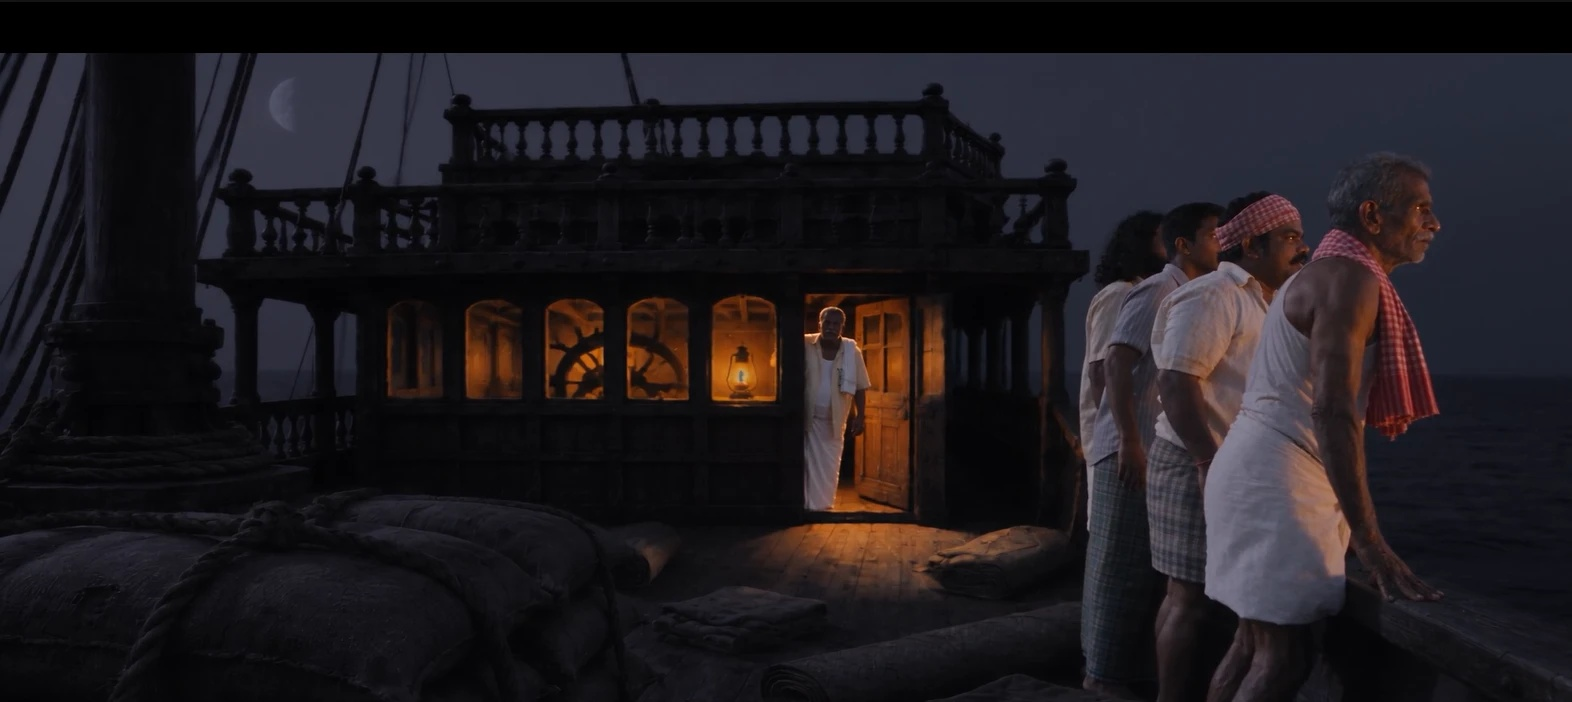
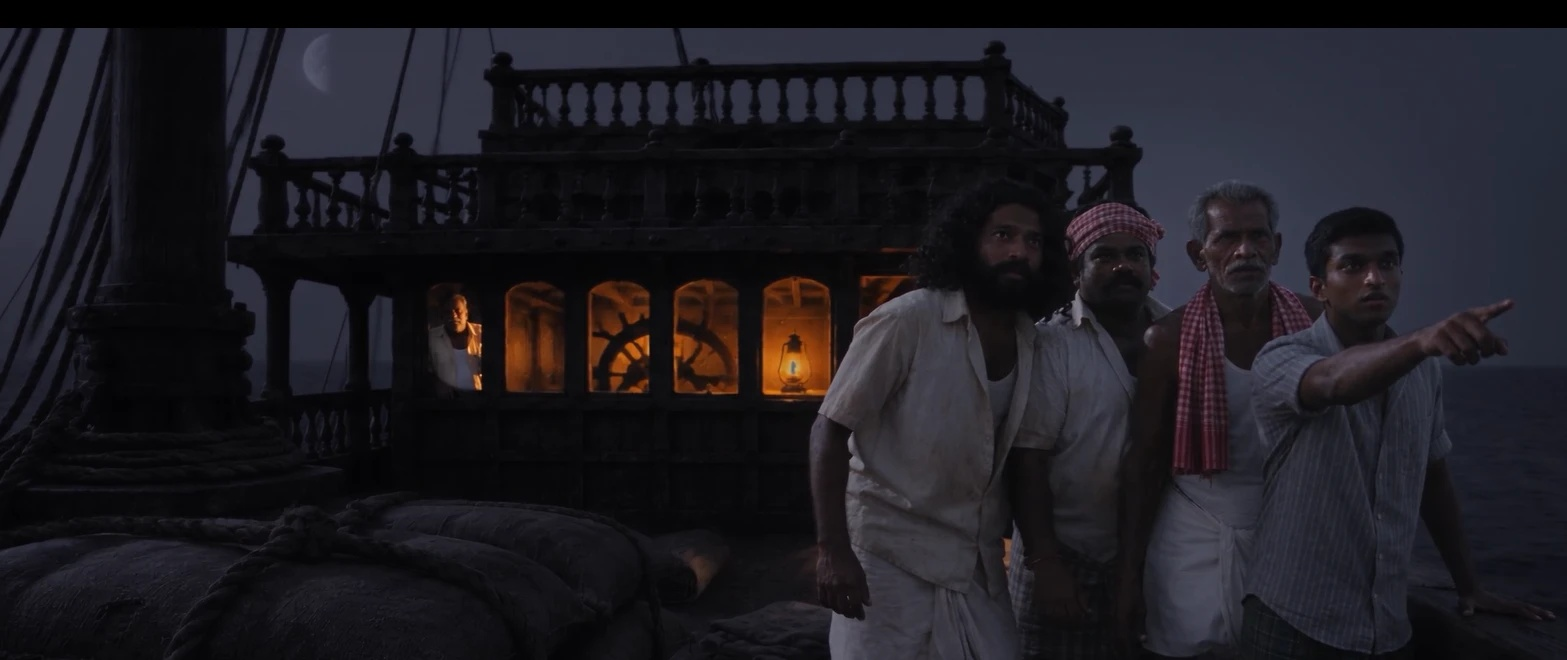
Ranjith: shot: s23-sh05 v4 approved, last frame saved

diff --git a/scenes/showreel/s23-sh05.md b/scenes/showreel/s23-sh05.md
@@ -1,5 +1,5 @@
 # Shot s23-sh05 · SB031a The crew wake and gather at the rail (8 s, silent) — v4
-Status: **v4 ready** (= approved v2 with only the waking staggered; v2 kept in `retired/s23-sh05-v2.md`).
+Status: **approved** (v4). Last frame: `approved/s23-sh05-last.jpg` (v2's kept as `approved/s23-sh05-v2-last.jpg`).
 Storyboard: SB031 · source scene 23D · emotion "Resolve" (no tag on the platform, W6) · storyboard `storyboards/sb031-storyboard.png` (with 3D blocking)
 Created by: Ranjith, 2026-11-08
 Camera position: urudeck-c1-aft-night (same as s21-sh01)
@@ -69,6 +69,7 @@ Exactly five men: Raghavan, Babu, Sasi and Antony at the RIGHT rail by the end, 
 - On the platform, remove all other attachments first (L88); attach only the IDs and images listed here.
 
 ## Generation results
+- v4 [approved] (2026-11-10, Ranjith) kept; last frame saved. End: Antony at the rail nearest the bow pointing out with his right arm, Raghavan just aft of him, then Babu, then Sasi; Aashaan at the wheel inside.
 - v3 [failed] (2026-11-10, Ranjith) the rewrite changed too much: the wheel showed very big in the windows, nobody was readable at the start, and Antony came out of the deckhouse instead of from the bow (L114). v2 had worked; only the unison waking needed changing.
 - v2 [approved] (2026-11-10, Ranjith) came out well ("deck-wake-and-gather-night"). Flag: the three men woke, got up and moved together in unison; stagger group actions (L113).
 - v1 [failed] (2026-11-08, Ranjith) blocked by Higgsfield's content filter, nothing rendered (L72/L89).
